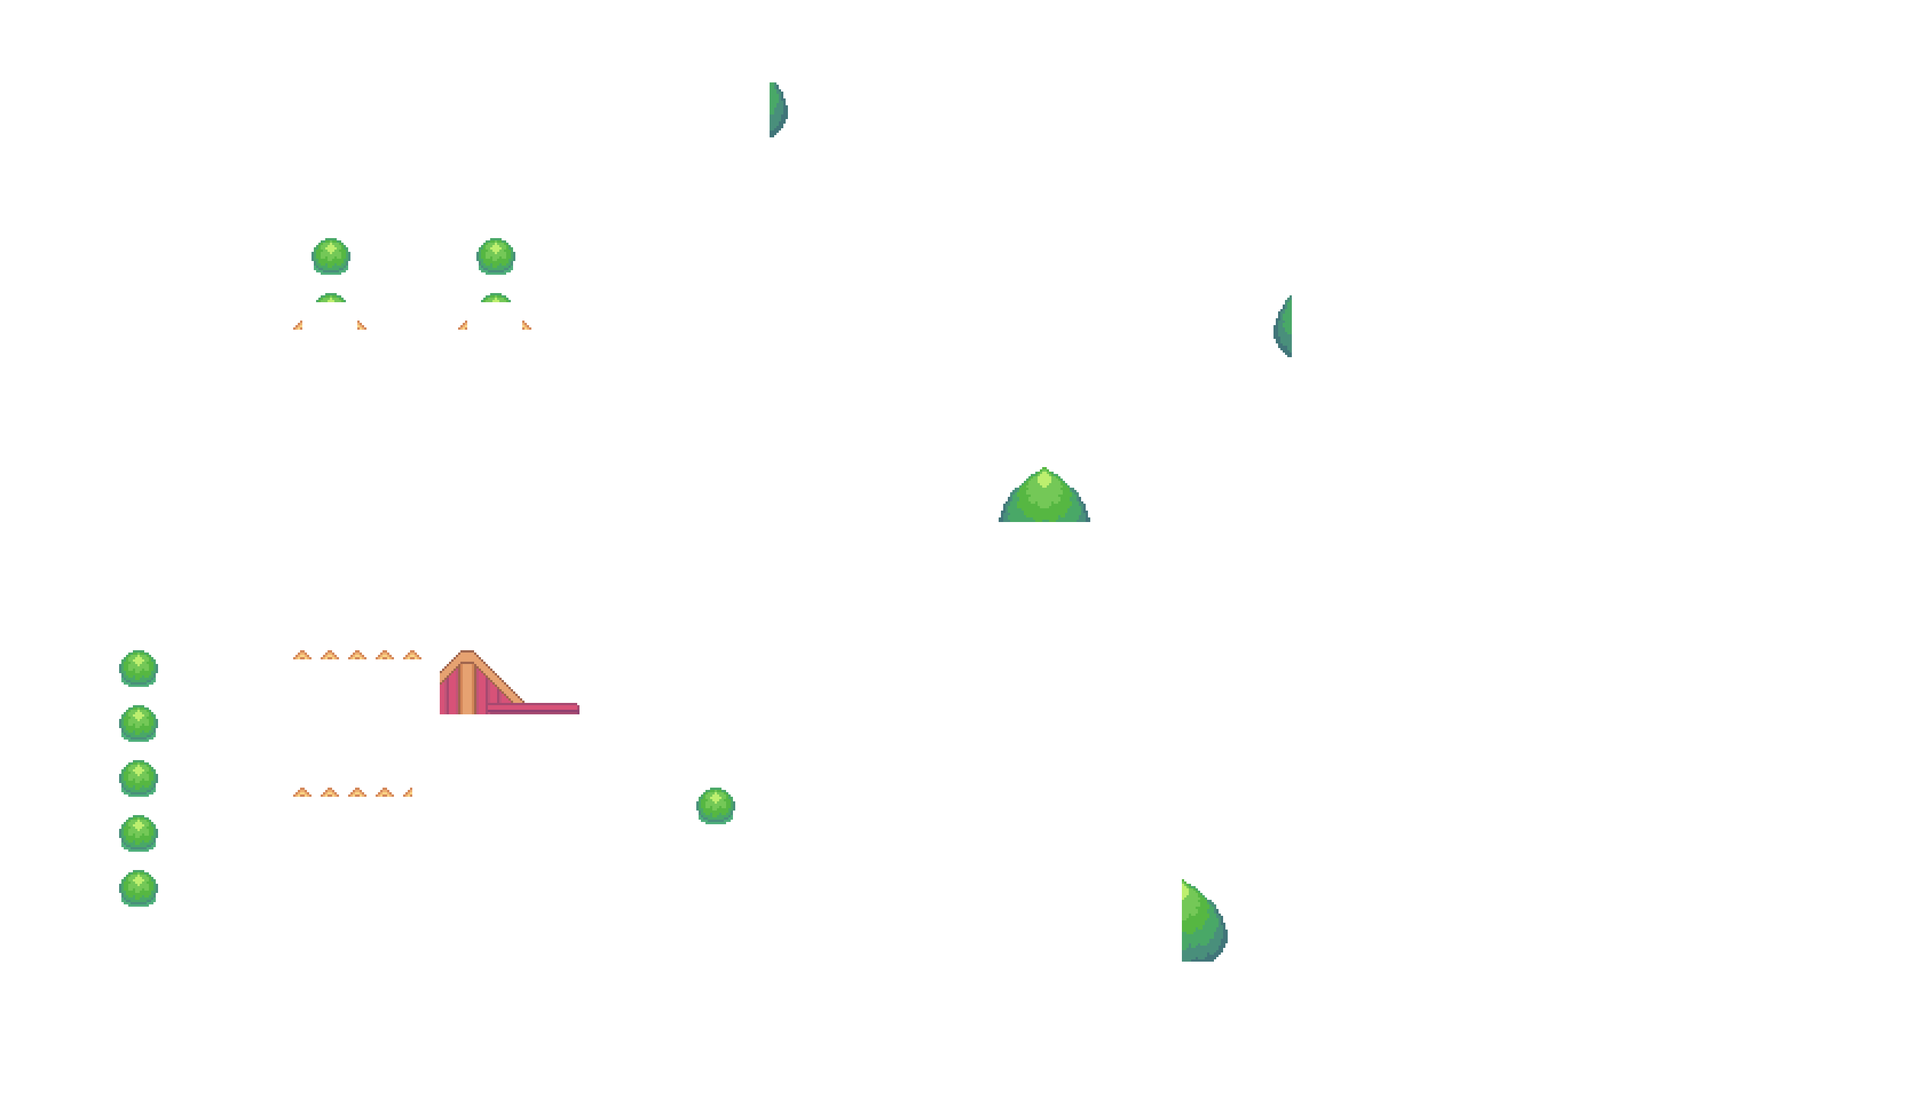
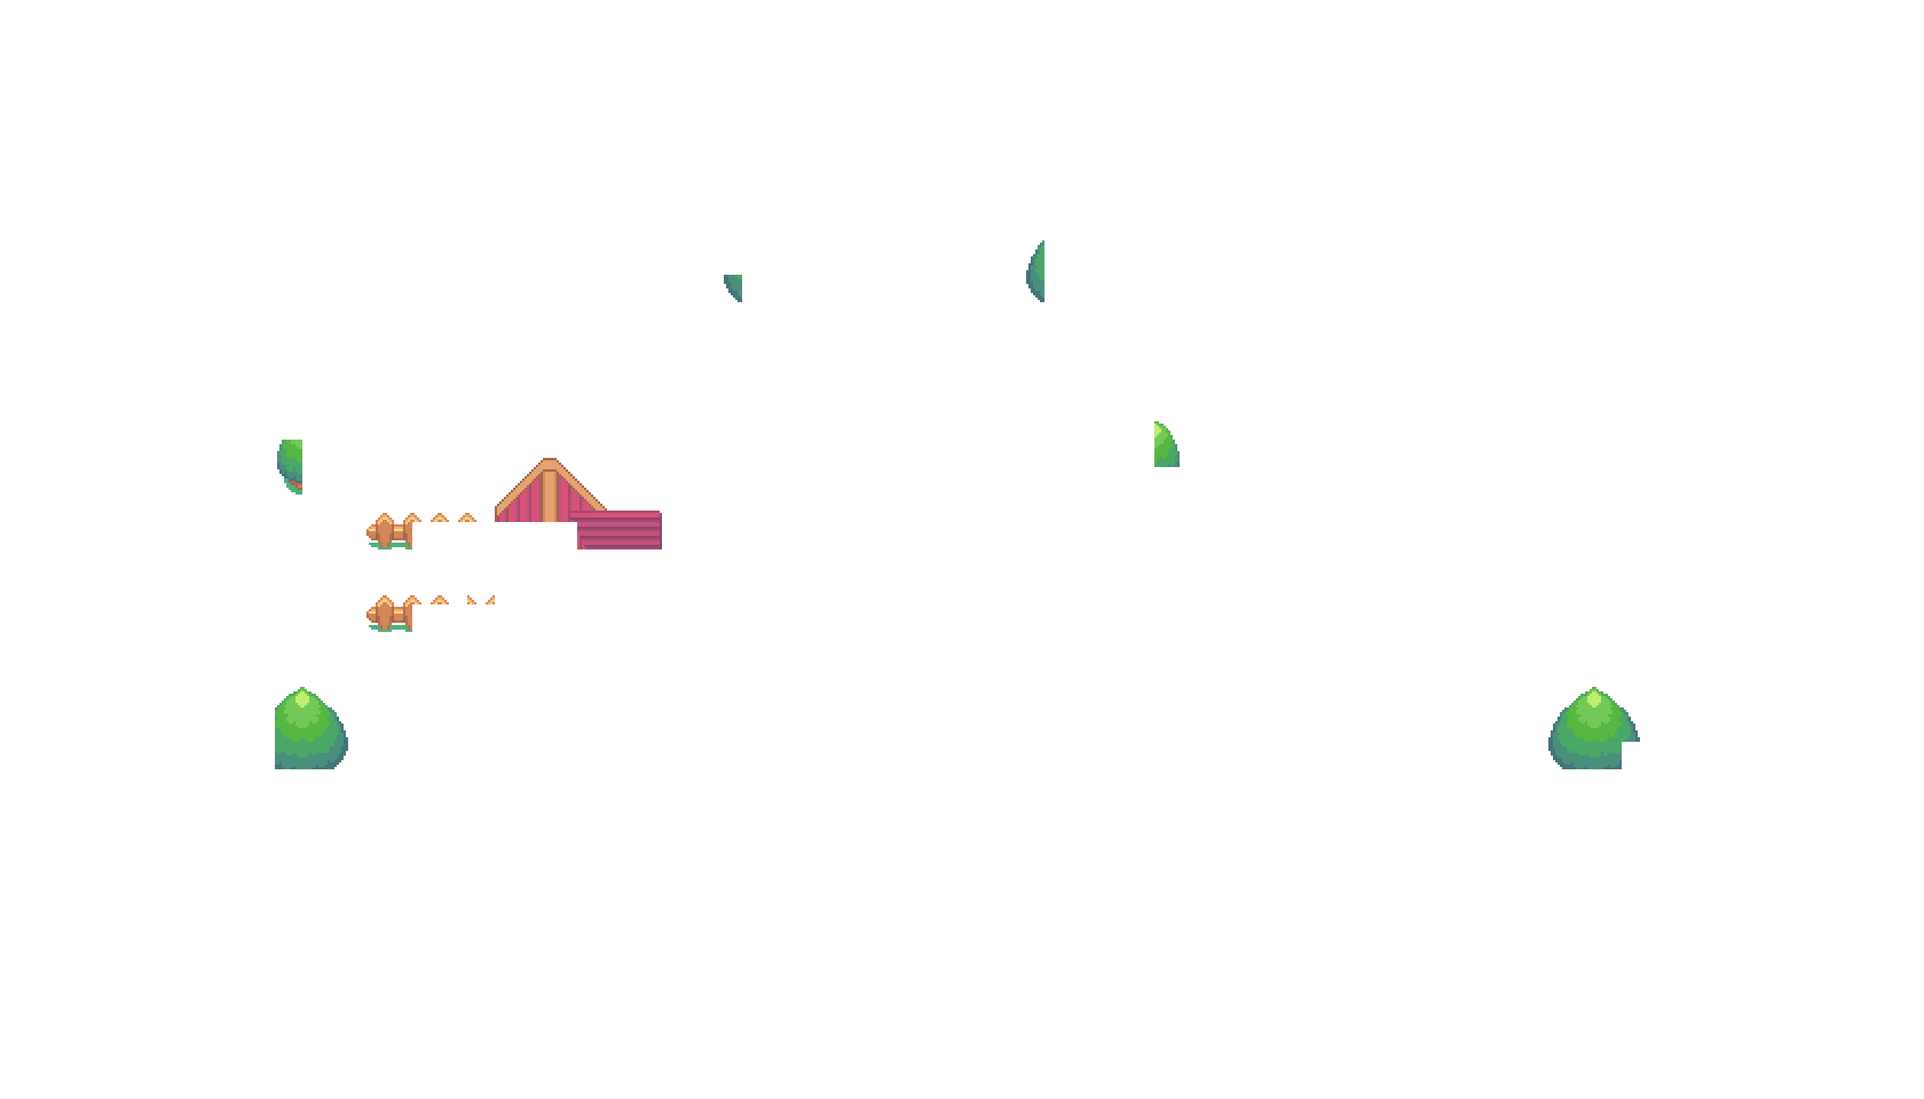
third commit

diff --git a/js/data/collisions.js b/js/data/collisions.js
@@ -5,133 +5,115 @@ const collision = [
   0, 0, 0, 0, 0, 0, 0, 0, 0, 0, 0, 0, 0, 0, 0, 0, 0, 0, 0, 0, 0, 0, 0, 0, 0, 0,
   0, 0, 0, 0, 0, 0, 0, 0, 0, 0, 0, 0, 0, 0, 0, 0, 0, 0, 0, 0, 0, 0, 0, 0, 0, 0,
   0, 0, 0, 0, 0, 0, 0, 0, 0, 0, 0, 0, 0, 0, 0, 0, 0, 0, 0, 0, 0, 0, 0, 0, 0, 0,
-  0, 0, 0, 0, 0, 0, 0, 0, 0, 0, 0, 0, 1025, 1025, 1025, 1025, 1025, 1025, 1025,
-  1025, 1025, 1025, 1025, 1025, 1025, 1025, 1025, 0, 0, 0, 0, 0, 0, 0, 0, 0, 0,
   0, 0, 0, 0, 0, 0, 0, 0, 0, 0, 0, 0, 0, 0, 0, 0, 0, 0, 0, 0, 0, 0, 0, 0, 0, 0,
-  0, 0, 0, 0, 0, 0, 0, 0, 0, 0, 0, 0, 0, 0, 0, 0, 0, 0, 1025, 0, 0, 0, 0, 0, 0,
-  0, 0, 0, 0, 0, 0, 0, 0, 1025, 0, 0, 0, 0, 0, 0, 0, 0, 0, 0, 0, 0, 0, 0, 0, 0,
   0, 0, 0, 0, 0, 0, 0, 0, 0, 0, 0, 0, 0, 0, 0, 0, 0, 0, 0, 0, 0, 0, 0, 0, 0, 0,
-  0, 0, 0, 0, 0, 0, 0, 0, 0, 1025, 1025, 0, 1025, 0, 0, 0, 0, 0, 0, 0, 0, 0, 0,
-  0, 0, 0, 0, 1025, 0, 0, 1025, 1025, 0, 0, 0, 0, 0, 0, 0, 0, 0, 0, 0, 0, 0, 0,
-  0, 0, 0, 0, 0, 0, 0, 0, 0, 0, 0, 0, 0, 0, 0, 0, 0, 1025, 0, 0, 1025, 0, 0, 0,
-  0, 0, 0, 0, 0, 0, 0, 0, 1025, 0, 0, 1025, 1025, 0, 0, 0, 0, 0, 0, 0, 0, 0, 0,
-  0, 0, 0, 0, 0, 1025, 1025, 0, 0, 1025, 0, 0, 0, 0, 0, 0, 0, 0, 0, 0, 0, 0, 0,
-  0, 0, 0, 0, 0, 0, 0, 0, 0, 0, 0, 0, 0, 0, 0, 0, 1025, 0, 1025, 1025, 0, 1025,
-  0, 0, 0, 0, 1025, 0, 0, 0, 0, 1025, 0, 0, 0, 0, 0, 0, 0, 0, 0, 0, 0, 0, 0, 0,
-  0, 0, 0, 0, 0, 0, 0, 0, 0, 0, 0, 1025, 1025, 0, 0, 0, 0, 0, 0, 1025, 1025,
-  1025, 1025, 0, 0, 0, 1025, 1025, 1025, 1025, 1025, 0, 0, 0, 0, 0, 0, 0, 0, 0,
-  1025, 0, 0, 0, 0, 0, 1025, 0, 0, 1025, 0, 1025, 1025, 1025, 1025, 0, 0, 0, 0,
-  0, 0, 0, 0, 0, 0, 0, 0, 0, 0, 0, 0, 0, 0, 0, 0, 0, 0, 0, 0, 0, 0, 0, 1025, 0,
-  0, 0, 0, 0, 1025, 0, 0, 0, 0, 1025, 1025, 1025, 0, 0, 0, 0, 0, 1025, 0, 0, 0,
-  0, 0, 0, 0, 0, 1025, 0, 0, 0, 0, 0, 1025, 0, 0, 1025, 0, 0, 0, 0, 0, 0, 0, 0,
-  0, 0, 0, 0, 0, 0, 0, 0, 0, 0, 0, 0, 0, 0, 0, 0, 0, 0, 0, 0, 0, 0, 0, 0, 0,
-  1025, 0, 0, 1025, 1025, 0, 0, 0, 0, 0, 0, 0, 0, 0, 0, 0, 0, 0, 1025, 0, 0, 0,
-  0, 0, 0, 0, 0, 1025, 0, 0, 0, 0, 0, 0, 0, 0, 0, 0, 0, 0, 0, 0, 0, 0, 0, 0, 0,
-  0, 0, 0, 0, 0, 0, 0, 0, 0, 0, 0, 0, 0, 0, 0, 0, 0, 0, 0, 0, 0, 0, 0, 1025,
-  1025, 1025, 0, 0, 0, 0, 0, 0, 0, 0, 0, 0, 0, 0, 0, 0, 0, 1025, 0, 0, 0, 0, 0,
-  0, 0, 0, 1025, 0, 0, 0, 0, 0, 1025, 0, 0, 1025, 0, 0, 0, 0, 0, 0, 0, 0, 0, 0,
-  0, 0, 0, 0, 0, 0, 0, 0, 0, 0, 0, 0, 0, 0, 0, 0, 0, 0, 0, 0, 1025, 1025, 1025,
-  0, 0, 0, 0, 0, 0, 0, 0, 0, 0, 0, 0, 0, 0, 0, 0, 0, 0, 1025, 0, 0, 0, 0, 0,
-  1025, 1025, 1025, 1025, 0, 0, 0, 1025, 1025, 0, 1025, 1025, 0, 1025, 1025, 0,
   0, 0, 0, 0, 0, 0, 0, 0, 0, 0, 0, 0, 0, 0, 0, 0, 0, 0, 0, 0, 0, 0, 0, 0, 0, 0,
-  0, 1610613761, 0, 0, 0, 0, 0, 0, 0, 0, 0, 0, 0, 0, 0, 0, 0, 0, 0, 0, 0, 1025,
-  0, 0, 0, 0, 0, 1025, 0, 0, 0, 0, 0, 0, 1025, 1025, 1025, 1025, 0, 0, 1025,
-  1025, 1025, 1025, 0, 0, 0, 0, 0, 0, 0, 0, 0, 0, 0, 0, 0, 0, 0, 0, 0, 0, 0, 0,
-  0, 0, 0, 0, 0, 0, 0, 1025, 0, 0, 0, 0, 0, 0, 0, 0, 0, 0, 0, 0, 0, 0, 0, 0, 0,
-  0, 1025, 0, 0, 0, 0, 0, 0, 1025, 0, 0, 0, 0, 0, 0, 0, 0, 0, 0, 0, 0, 0, 0, 0,
   0, 0, 0, 0, 0, 0, 0, 0, 0, 0, 0, 0, 0, 0, 0, 0, 0, 0, 0, 0, 0, 0, 0, 0, 0, 0,
-  0, 0, 1025, 1025, 1025, 0, 0, 0, 0, 0, 0, 0, 0, 0, 0, 0, 0, 0, 0, 0, 1025, 0,
-  0, 0, 0, 0, 0, 1025, 0, 0, 0, 0, 0, 0, 0, 0, 0, 0, 0, 0, 0, 0, 0, 0, 0, 0, 0,
   0, 0, 0, 0, 0, 0, 0, 0, 0, 0, 0, 0, 0, 0, 0, 0, 0, 0, 0, 0, 0, 0, 0, 0, 0, 0,
-  0, 0, 1025, 1025, 1025, 0, 1025, 1025, 1025, 1025, 0, 0, 1025, 1025, 1025, 0,
-  1025, 1025, 0, 0, 0, 0, 0, 0, 0, 1025, 0, 0, 0, 0, 0, 0, 0, 0, 0, 0, 0, 0, 0,
   0, 0, 0, 0, 0, 0, 0, 0, 0, 0, 0, 0, 0, 0, 0, 0, 0, 0, 0, 0, 0, 0, 0, 0, 0, 0,
-  0, 0, 0, 0, 0, 0, 0, 0, 0, 0, 1025, 0, 0, 0, 0, 0, 0, 0, 0, 0, 1025, 0, 0,
-  1025, 1025, 0, 0, 0, 0, 0, 0, 1025, 0, 0, 0, 0, 0, 0, 0, 0, 0, 0, 0, 0, 0, 0,
   0, 0, 0, 0, 0, 0, 0, 0, 0, 0, 0, 0, 0, 0, 0, 0, 0, 0, 0, 0, 0, 0, 0, 0, 0, 0,
-  0, 0, 0, 0, 0, 0, 0, 0, 0, 0, 0, 0, 0, 0, 0, 0, 0, 0, 0, 0, 0, 0, 0, 1025, 0,
-  0, 0, 0, 0, 0, 1025, 0, 0, 0, 0, 0, 0, 0, 0, 0, 0, 0, 0, 0, 0, 0, 0, 0, 0, 0,
   0, 0, 0, 0, 0, 0, 0, 0, 0, 0, 0, 0, 0, 0, 0, 0, 0, 0, 0, 0, 0, 0, 0, 0, 0, 0,
-  0, 0, 0, 0, 0, 0, 0, 0, 0, 0, 0, 0, 0, 0, 0, 0, 1025, 0, 0, 0, 0, 0, 0, 0,
+  0, 0, 0, 0, 0, 0, 0, 0, 0, 0, 0, 0, 0, 0, 0, 0, 0, 0, 0, 0, 0, 0, 0, 0, 0, 0,
+  0, 0, 0, 0, 0, 0, 0, 0, 0, 0, 0, 0, 0, 0, 0, 0, 0, 0, 0, 0, 0, 0, 0, 0, 0, 0,
+  0, 0, 0, 0, 0, 0, 0, 0, 0, 0, 0, 0, 0, 0, 0, 0, 0, 0, 0, 0, 0, 0, 0, 0, 0, 0,
+  0, 0, 0, 0, 0, 0, 0, 0, 0, 0, 0, 0, 0, 0, 0, 0, 0, 0, 0, 0, 0, 0, 0, 0, 0, 0,
+  0, 0, 0, 0, 0, 0, 0, 0, 0, 0, 0, 0, 0, 0, 0, 0, 0, 0, 0, 0, 0, 0, 0, 0, 0, 0,
+  0, 0, 0, 0, 0, 0, 0, 0, 0, 0, 0, 0, 0, 0, 0, 0, 0, 0, 0, 0, 0, 0, 0, 0, 0, 0,
+  0, 0, 0, 0, 0, 0, 0, 0, 0, 0, 0, 0, 0, 0, 0, 0, 0, 0, 0, 0, 0, 0, 0, 0, 0, 0,
+  0, 0, 0, 0, 0, 0, 0, 0, 0, 0, 0, 0, 0, 0, 0, 0, 0, 0, 0, 0, 0, 0, 0, 0, 0, 0,
+  0, 0, 0, 0, 0, 0, 0, 0, 0, 0, 0, 0, 0, 0, 0, 0, 0, 0, 0, 0, 0, 0, 0, 0, 0, 0,
+  0, 0, 0, 0, 0, 0, 0, 0, 0, 0, 0, 0, 0, 0, 0, 0, 0, 0, 0, 0, 0, 0, 0, 0, 0, 0,
+  0, 0, 0, 0, 0, 0, 0, 0, 0, 0, 0, 0, 0, 0, 0, 0, 0, 0, 0, 0, 0, 0, 0, 0, 0, 0,
+  0, 0, 0, 1025, 1025, 1025, 1025, 1025, 1025, 1025, 1025, 1025, 1025, 1025,
+  1025, 1025, 1025, 1025, 1025, 1025, 1025, 1025, 1025, 1025, 1025, 0, 0, 0, 0,
+  0, 0, 0, 0, 0, 0, 0, 0, 0, 0, 0, 0, 0, 0, 0, 0, 0, 0, 0, 0, 0, 0, 0, 0, 0, 0,
+  0, 0, 0, 0, 0, 0, 0, 0, 0, 0, 0, 0, 0, 0, 0, 0, 0, 1025, 0, 0, 0, 0, 1025,
+  1025, 0, 1025, 0, 0, 0, 0, 0, 0, 0, 1025, 1025, 0, 0, 0, 0, 0, 1025, 0, 0,
+  1025, 1025, 1025, 0, 0, 0, 1025, 1025, 1025, 0, 0, 0, 0, 0, 0, 0, 0, 0, 0, 0,
+  0, 0, 0, 0, 0, 0, 0, 0, 0, 0, 0, 0, 0, 0, 0, 1025, 1025, 0, 0, 0, 0, 1025,
+  1025, 0, 1025, 0, 0, 0, 0, 0, 0, 0, 1025, 1025, 1025, 1025, 1025, 1025, 1025,
+  1025, 0, 0, 0, 0, 0, 0, 0, 1025, 0, 0, 1025, 0, 0, 1025, 1025, 1025, 0, 0, 0,
   1025, 0, 0, 0, 0, 0, 0, 0, 0, 0, 0, 0, 0, 0, 0, 0, 0, 0, 0, 0, 0, 0, 0, 0, 0,
+  1025, 0, 0, 1025, 1025, 1025, 1025, 0, 0, 1025, 1025, 0, 0, 0, 0, 0, 0, 0, 0,
+  0, 0, 0, 0, 0, 0, 0, 0, 0, 0, 0, 0, 0, 1025, 1025, 1025, 0, 1025, 0, 0, 0, 0,
+  0, 0, 0, 0, 1025, 1025, 1025, 0, 0, 0, 0, 0, 0, 0, 0, 0, 0, 0, 0, 0, 0, 0, 0,
+  0, 0, 0, 0, 0, 0, 1025, 1025, 1025, 1025, 0, 0, 1025, 1025, 1025, 1025, 0, 0,
+  0, 0, 0, 0, 0, 0, 0, 0, 0, 0, 0, 0, 0, 0, 0, 0, 0, 1025, 1025, 1025, 0, 0, 0,
+  1025, 1025, 0, 0, 0, 0, 0, 0, 0, 0, 0, 0, 1025, 0, 0, 0, 0, 0, 0, 0, 0, 0, 0,
+  0, 0, 0, 0, 0, 0, 0, 0, 0, 0, 1025, 1025, 0, 0, 0, 0, 0, 0, 0, 0, 0, 0, 0, 0,
+  0, 0, 0, 0, 0, 0, 0, 0, 0, 0, 0, 0, 0, 0, 0, 0, 0, 1025, 0, 0, 0, 0, 0, 0, 0,
+  0, 0, 0, 0, 0, 0, 0, 0, 0, 0, 1025, 0, 0, 0, 0, 0, 0, 0, 0, 0, 0, 0, 0, 0, 0,
+  0, 0, 0, 0, 0, 1025, 0, 0, 0, 0, 0, 0, 0, 0, 0, 0, 0, 0, 0, 0, 0, 0, 0, 0, 0,
+  0, 0, 0, 0, 0, 0, 0, 0, 0, 0, 0, 0, 1025, 0, 0, 0, 0, 0, 0, 0, 0, 0, 0, 0, 0,
+  0, 0, 0, 0, 1025, 0, 0, 0, 0, 0, 0, 0, 0, 0, 0, 0, 0, 0, 0, 0, 0, 0, 0, 0, 0,
+  1025, 0, 0, 0, 0, 0, 0, 0, 0, 0, 0, 0, 0, 0, 0, 0, 0, 0, 0, 0, 0, 0, 0, 0, 0,
+  0, 0, 0, 0, 0, 0, 0, 1025, 0, 0, 0, 0, 0, 0, 0, 0, 0, 0, 0, 0, 0, 0, 0, 1025,
+  0, 0, 0, 0, 0, 0, 0, 0, 0, 0, 0, 0, 0, 0, 0, 0, 0, 0, 0, 0, 0, 1025, 1025, 0,
   0, 0, 0, 0, 0, 0, 0, 0, 0, 0, 0, 0, 0, 0, 0, 0, 0, 0, 0, 0, 0, 0, 0, 0, 0, 0,
-  0, 0, 0, 0, 0, 0, 0, 0, 0, 0, 1025, 0, 0, 0, 0, 0, 0, 0, 0, 1025, 0, 0, 0, 0,
+  0, 0, 0, 1025, 1025, 0, 0, 0, 0, 0, 0, 0, 0, 0, 0, 0, 0, 0, 1025, 1025, 0, 0,
+  0, 0, 0, 0, 0, 0, 0, 0, 0, 0, 0, 0, 0, 0, 0, 0, 0, 0, 0, 1025, 0, 0, 0, 0, 0,
   0, 0, 0, 0, 0, 0, 0, 0, 0, 0, 0, 0, 0, 0, 0, 0, 0, 0, 0, 0, 0, 0, 0, 0, 0, 0,
-  0, 1610613761, 1610613761, 0, 0, 0, 0, 0, 0, 0, 0, 0, 0, 0, 0, 0, 0, 0, 0, 0,
-  1610613761, 0, 0, 0, 1610613761, 1610613761, 0, 0, 0, 1025, 0, 0, 0, 0, 0, 0,
-  0, 0, 0, 1025, 0, 0, 0, 0, 0, 0, 0, 0, 0, 0, 0, 0, 0, 0, 0, 0, 0, 0, 0, 0, 0,
-  0, 0, 0, 0, 0, 0, 0, 0, 0, 0, 1610613761, 1610613761, 0, 0, 0, 0, 0, 0, 0, 0,
-  0, 0, 0, 0, 0, 0, 0, 0, 1610613761, 0, 1610613761, 1610613761, 1610613761, 0,
-  0, 1610613761, 0, 1025, 0, 0, 0, 0, 0, 0, 0, 0, 0, 0, 1025, 0, 0, 0, 0, 0, 0,
-  0, 0, 0, 0, 0, 0, 0, 0, 0, 0, 0, 0, 0, 0, 0, 1610613761, 1610613761,
-  1610613761, 1610613761, 1610613761, 1610613761, 1610613761, 1610613761,
-  1610613761, 1610613761, 0, 0, 0, 0, 0, 0, 0, 0, 0, 0, 0, 0, 0, 0, 0, 0,
-  1610613761, 1610613761, 0, 0, 0, 0, 0, 0, 0, 0, 1025, 0, 0, 0, 0, 0, 0, 0, 0,
-  0, 0, 1025, 0, 0, 0, 0, 0, 0, 0, 0, 0, 0, 0, 0, 0, 0, 0, 0, 0, 0, 0, 0, 0,
-  1610613761, 0, 0, 0, 0, 0, 0, 0, 0, 0, 0, 1610613761, 1610613761, 1610613761,
-  1610613761, 1610613761, 1610613761, 0, 0, 0, 0, 0, 0, 0, 1610613761,
-  1610613761, 1610613761, 0, 0, 0, 0, 0, 0, 0, 0, 0, 0, 1025, 0, 0, 0, 0, 0, 0,
-  0, 0, 0, 1025, 0, 0, 0, 0, 0, 0, 0, 0, 0, 0, 0, 0, 0, 0, 0, 0, 0, 0, 0, 0, 0,
-  1610613761, 0, 0, 0, 0, 0, 0, 0, 0, 0, 0, 0, 0, 0, 0, 0, 0, 0, 1610613761, 0,
-  0, 0, 0, 0, 1610613761, 0, 0, 0, 0, 0, 0, 0, 0, 0, 0, 0, 0, 0, 1025, 0, 0, 0,
-  0, 0, 0, 0, 0, 0, 1025, 0, 0, 0, 0, 0, 0, 1610613761, 1610613761, 1610613761,
-  1610613761, 1610613761, 1610613761, 0, 0, 0, 0, 0, 0, 0, 0, 0, 1025, 0, 0, 0,
-  0, 0, 0, 0, 0, 0, 0, 0, 0, 0, 0, 0, 0, 0, 0, 1610613761, 0, 0, 0, 0,
-  1610613761, 0, 0, 0, 0, 0, 0, 0, 0, 0, 0, 0, 0, 0, 0, 1025, 0, 0, 0, 0, 0, 0,
-  0, 0, 1025, 0, 0, 0, 0, 0, 0, 0, 0, 0, 0, 0, 1610613761, 0, 0, 0, 0, 0, 0, 0,
-  0, 0, 1610613761, 0, 0, 0, 0, 0, 0, 0, 0, 0, 0, 0, 0, 0, 0, 0, 0, 0, 0,
-  1610613761, 0, 0, 0, 0, 1610613761, 0, 0, 0, 0, 0, 0, 0, 0, 0, 0, 0, 0, 0, 0,
-  0, 1025, 0, 0, 0, 0, 0, 0, 0, 1025, 0, 0, 0, 0, 0, 0, 0, 0, 0, 0, 0,
-  1610613761, 1025, 1025, 1025, 1610613761, 1610613761, 0, 0, 0, 0, 0,
-  1610613761, 0, 0, 0, 0, 0, 0, 0, 0, 0, 0, 0, 0, 0, 0, 0, 0, 0, 1610613761, 0,
-  0, 0, 0, 1610613761, 0, 0, 0, 0, 0, 0, 0, 0, 0, 0, 0, 0, 0, 0, 0, 0, 1025, 0,
-  0, 0, 0, 0, 0, 1025, 0, 0, 0, 0, 0, 0, 0, 0, 0, 0, 0, 1610613761, 0, 0, 0, 0,
-  1610613761, 0, 0, 0, 0, 0, 1610613761, 0, 0, 0, 0, 0, 0, 0, 0, 0, 0, 0, 0, 0,
-  0, 0, 0, 1610613761, 0, 0, 0, 0, 0, 1610613761, 0, 0, 0, 0, 0, 0, 0, 0, 0, 0,
-  0, 0, 0, 0, 0, 0, 1025, 0, 0, 0, 0, 0, 0, 1025, 0, 0, 0, 0, 0, 0, 0, 0, 0, 0,
-  0, 1610613761, 0, 0, 0, 0, 1610613761, 0, 0, 0, 0, 0, 0, 1610613761,
-  1610613761, 1610613761, 1610613761, 1610613761, 0, 0, 0, 0, 0, 0, 0, 0, 0, 0,
-  1610613761, 0, 0, 0, 0, 0, 0, 1610613761, 1610613761, 0, 0, 0, 0, 0, 0, 0, 0,
-  0, 0, 0, 0, 0, 0, 0, 1025, 0, 0, 0, 0, 0, 0, 1025, 0, 0, 0, 0, 0, 0,
-  1610613761, 1610613761, 1610613761, 1610613761, 1610613761, 1610613761,
-  1610613761, 1610613761, 1610613761, 1610613761, 1610613761, 1610613761, 0, 0,
-  0, 0, 0, 0, 0, 0, 0, 0, 1610613761, 0, 0, 0, 0, 0, 0, 0, 0, 0, 1610613761, 0,
-  0, 0, 0, 0, 0, 0, 1610613761, 1610613761, 0, 0, 1610613761, 1610613761, 0, 0,
-  0, 0, 0, 0, 0, 0, 0, 0, 1025, 0, 0, 0, 0, 0, 0, 1025, 0, 0, 0, 0, 0, 0, 0, 0,
-  0, 0, 0, 0, 0, 0, 0, 0, 0, 0, 0, 0, 0, 0, 0, 0, 0, 0, 0, 0, 1610613761, 0, 0,
-  0, 0, 0, 0, 0, 0, 0, 1610613761, 0, 0, 0, 0, 0, 0, 0, 0, 0, 0, 0, 0, 0,
-  1610613761, 1610613761, 0, 0, 0, 0, 0, 0, 0, 0, 1025, 0, 0, 0, 0, 0, 0, 1025,
+  0, 0, 1025, 1025, 1025, 1025, 1025, 1025, 0, 0, 1025, 1025, 1025, 0, 1025, 0,
+  0, 1025, 1025, 0, 0, 0, 0, 0, 0, 0, 0, 0, 0, 0, 0, 0, 0, 0, 0, 0, 0, 0, 1025,
+  0, 0, 0, 0, 1025, 1025, 1025, 1025, 1025, 1025, 1025, 0, 0, 0, 0, 0, 0, 0, 0,
+  0, 0, 0, 0, 0, 0, 0, 0, 0, 0, 0, 0, 0, 0, 0, 0, 0, 0, 0, 0, 0, 0, 0, 0, 0,
+  1025, 0, 0, 0, 0, 0, 1025, 0, 0, 0, 0, 0, 0, 0, 0, 0, 0, 0, 0, 0, 0, 0, 0, 0,
+  0, 1025, 0, 0, 0, 0, 0, 0, 0, 0, 1025, 1025, 1025, 1025, 1025, 1025, 0, 0, 0,
   0, 0, 0, 0, 0, 0, 0, 0, 0, 0, 0, 0, 0, 0, 0, 0, 0, 0, 0, 0, 0, 0, 0, 0, 0, 0,
-  0, 0, 1610613761, 0, 0, 0, 0, 0, 0, 0, 0, 0, 1610613761, 0, 0, 0, 0, 0, 0, 0,
-  0, 0, 0, 0, 0, 0, 0, 0, 1610613761, 1610613761, 1025, 1025, 1025, 1025, 1025,
-  1025, 0, 0, 0, 0, 0, 0, 0, 1025, 0, 0, 0, 0, 0, 0, 0, 0, 0, 0, 0, 0, 0, 0, 0,
-  0, 0, 0, 0, 0, 0, 0, 0, 1610613761, 1610613761, 1610613761, 1610613761,
-  1610613761, 0, 0, 0, 0, 0, 0, 0, 0, 0, 0, 1025, 0, 0, 0, 0, 0, 0, 0, 0, 0, 0,
-  0, 0, 0, 0, 0, 0, 1610613761, 0, 0, 0, 0, 0, 0, 0, 0, 0, 0, 0, 0, 0, 1025, 0,
-  0, 0, 0, 0, 0, 0, 0, 0, 0, 0, 0, 0, 0, 0, 0, 0, 0, 0, 0, 0, 0, 0, 1610613761,
+  0, 0, 0, 0, 0, 0, 0, 1025, 0, 0, 0, 0, 0, 0, 0, 0, 0, 0, 0, 0, 0, 0, 0, 0, 0,
+  0, 1025, 0, 0, 0, 0, 0, 0, 0, 0, 1025, 0, 0, 1025, 0, 1025, 0, 0, 0, 0, 1025,
+  0, 0, 0, 0, 1025, 0, 0, 0, 0, 0, 0, 0, 0, 0, 0, 0, 0, 0, 0, 0, 0, 0, 0, 0, 0,
+  0, 0, 0, 0, 0, 0, 1025, 0, 0, 0, 0, 0, 0, 0, 0, 0, 0, 0, 0, 0, 0, 0, 0, 0, 0,
+  1025, 0, 0, 0, 0, 1025, 1025, 1025, 1025, 1025, 0, 0, 1025, 1025, 1025, 1025,
+  1025, 1025, 1025, 0, 1025, 1025, 1025, 1025, 0, 1025, 1025, 1025, 1025, 0, 0,
+  1025, 1025, 0, 0, 0, 0, 0, 0, 0, 0, 0, 0, 0, 0, 0, 0, 0, 0, 0, 0, 1025, 0, 0,
+  0, 0, 0, 0, 0, 0, 0, 0, 0, 0, 0, 0, 0, 0, 0, 0, 1025, 0, 0, 0, 0, 0, 0, 0, 0,
+  0, 0, 0, 0, 0, 0, 0, 1025, 0, 0, 0, 0, 0, 0, 0, 0, 0, 0, 0, 0, 1025, 0, 0, 0,
+  1025, 0, 0, 0, 0, 0, 0, 0, 0, 0, 0, 0, 0, 0, 0, 0, 0, 0, 1025, 0, 0, 0, 0, 0,
   0, 0, 0, 0, 0, 0, 0, 0, 0, 0, 0, 0, 0, 1025, 0, 0, 0, 0, 0, 0, 0, 0, 0, 0, 0,
-  0, 1610613761, 0, 0, 0, 0, 1610613761, 0, 0, 0, 0, 0, 0, 0, 0, 0, 0, 0, 0, 0,
-  0, 1610613761, 1610613761, 0, 0, 0, 0, 0, 0, 0, 0, 0, 0, 1610613761,
-  1610613761, 1610613761, 0, 0, 0, 0, 0, 0, 0, 1610613761, 0, 0, 0, 0, 0, 0, 0,
-  0, 0, 0, 0, 0, 0, 0, 0, 1025, 0, 0, 0, 0, 0, 0, 0, 0, 0, 1610613761, 1025, 0,
-  1025, 1610613761, 0, 0, 0, 1610613761, 0, 0, 0, 0, 0, 0, 0, 0, 0, 0, 0, 0, 0,
-  0, 1610613761, 1610613761, 0, 0, 0, 0, 0, 0, 0, 1610613761, 1610613761, 0, 0,
-  0, 1610613761, 1610613761, 1610613761, 0, 0, 0, 0, 1610613761, 0, 0, 0, 0, 0,
-  0, 0, 0, 0, 0, 0, 0, 0, 0, 0, 0, 1610613761, 0, 0, 0, 0, 0, 0, 0, 1610613761,
-  0, 0, 0, 0, 0, 1610613761, 0, 0, 1610613761, 0, 0, 0, 0, 0, 0, 0, 0, 0, 0, 0,
-  0, 0, 0, 0, 1610613761, 1610613761, 1610613761, 1610613761, 1610613761, 0, 0,
-  1610613761, 0, 0, 0, 0, 0, 0, 0, 0, 1610613761, 0, 0, 0, 0, 1610613761,
-  1610613761, 1610613761, 0, 0, 0, 0, 0, 0, 0, 0, 0, 0, 0, 0, 0, 1610613761, 0,
-  0, 0, 1610613761, 1610613761, 1610613761, 1610613761, 0, 0, 0, 0, 0, 0, 0,
-  1610613761, 1610613761, 0, 0, 0, 0, 0, 0, 0, 0, 0, 0, 0, 0, 0, 0, 0, 0, 0, 0,
-  0, 0, 1610613761, 1610613761, 1610613761, 0, 0, 0, 0, 0, 0, 0, 0, 0, 0,
-  1610613761, 1610613761, 0, 0, 0, 0, 1610613761, 0, 0, 0, 0, 0, 0, 0, 0, 0, 0,
-  0, 0, 0, 0, 1610613761, 1610613761, 1610613761, 0, 0, 0, 0, 0, 0, 0, 0, 0, 0,
+  0, 0, 0, 0, 1025, 1025, 1025, 1025, 1025, 0, 0, 0, 0, 0, 0, 0, 0, 0, 0, 0, 0,
+  0, 1025, 1025, 0, 0, 0, 0, 0, 0, 0, 0, 0, 0, 0, 0, 0, 0, 0, 1025, 0, 0, 0, 0,
+  0, 0, 0, 0, 0, 0, 0, 0, 0, 0, 0, 0, 0, 0, 1025, 0, 0, 0, 0, 0, 0, 0, 0, 0, 0,
+  0, 0, 0, 0, 0, 0, 0, 0, 0, 0, 1025, 0, 0, 0, 0, 0, 0, 0, 0, 0, 0, 0, 0, 0,
+  1025, 0, 0, 0, 0, 0, 0, 0, 0, 0, 0, 0, 0, 0, 0, 0, 1025, 0, 0, 0, 0, 0, 0, 0,
+  0, 0, 0, 0, 0, 0, 0, 0, 0, 0, 0, 1025, 0, 0, 0, 0, 0, 0, 0, 0, 0, 0, 0, 0, 0,
+  0, 0, 0, 0, 0, 0, 0, 1025, 0, 0, 0, 0, 0, 0, 0, 0, 0, 0, 0, 0, 0, 1025, 0, 0,
+  0, 0, 0, 0, 0, 0, 0, 0, 0, 0, 0, 0, 0, 1025, 0, 0, 0, 0, 0, 0, 0, 0, 0, 0, 0,
+  0, 0, 0, 0, 0, 0, 0, 1025, 0, 0, 0, 0, 0, 0, 0, 0, 0, 0, 0, 0, 0, 0, 0, 0, 0,
+  0, 0, 0, 1025, 0, 0, 0, 0, 0, 0, 0, 0, 0, 0, 0, 0, 1025, 0, 0, 0, 0, 0, 0, 0,
+  0, 0, 0, 0, 0, 0, 0, 0, 1025, 0, 0, 0, 0, 0, 0, 0, 0, 0, 0, 0, 0, 0, 0, 0, 0,
+  0, 0, 0, 1025, 1025, 1025, 0, 0, 0, 0, 0, 0, 0, 0, 0, 0, 0, 0, 0, 0, 0, 1025,
+  1025, 1025, 0, 0, 0, 0, 0, 0, 0, 0, 0, 0, 0, 0, 1025, 0, 0, 0, 0, 0, 0, 0, 0,
+  0, 0, 0, 0, 0, 0, 1025, 1025, 0, 0, 0, 0, 0, 0, 0, 0, 0, 0, 0, 0, 0, 0, 0, 0,
+  0, 0, 0, 0, 0, 0, 1025, 0, 0, 0, 0, 0, 0, 0, 0, 0, 0, 0, 0, 0, 0, 0, 1025, 0,
+  0, 0, 0, 0, 0, 0, 0, 0, 0, 0, 0, 0, 0, 1025, 0, 0, 0, 0, 0, 0, 0, 0, 0, 0, 0,
+  0, 0, 0, 1025, 0, 0, 0, 0, 0, 0, 0, 0, 0, 0, 0, 0, 0, 0, 0, 0, 0, 0, 0, 0, 0,
+  0, 0, 1025, 1025, 1025, 1025, 1025, 1025, 1025, 1025, 1025, 1025, 1025, 1025,
+  1025, 1025, 1025, 1025, 0, 0, 0, 0, 0, 0, 0, 0, 0, 0, 0, 0, 0, 0, 0, 0, 1025,
+  1025, 1025, 1025, 1025, 1025, 1025, 1025, 1025, 1025, 1025, 1025, 1025, 1025,
   0, 0, 0, 0, 0, 0, 0, 0, 0, 0, 0, 0, 0, 0, 0, 0, 0, 0, 0, 0, 0, 0, 0, 0, 0, 0,
-  0, 0, 0, 0, 0, 0, 0, 0, 0, 0, 0, 0, 1610613761, 1610613761, 1610613761,
-  1610613761, 0, 0, 0, 0, 0, 0, 0, 0, 0, 0, 0, 0, 0, 0, 0, 0, 0, 0, 0, 0, 0, 0,
   0, 0, 0, 0, 0, 0, 0, 0, 0, 0, 0, 0, 0, 0, 0, 0, 0, 0, 0, 0, 0, 0, 0, 0, 0, 0,
   0, 0, 0, 0, 0, 0, 0, 0, 0, 0, 0, 0, 0, 0, 0, 0, 0, 0, 0, 0, 0, 0, 0, 0, 0, 0,
   0, 0, 0, 0, 0, 0, 0, 0, 0, 0, 0, 0, 0, 0, 0, 0, 0, 0, 0, 0, 0, 0, 0, 0, 0, 0,
-  0, 0, 0, 0, 0, 0, 0, 0, 0, 0, 0,
+  0, 0, 0, 0, 0, 0, 0, 0, 0, 0, 0, 0, 0, 0, 0, 0, 0, 0, 0, 0, 0, 0, 0, 0, 0, 0,
+  0, 0, 0, 0, 0, 0, 0, 0, 0, 0, 0, 0, 0, 0, 0, 0, 0, 0, 0, 0, 0, 0, 0, 0, 0, 0,
+  0, 0, 0, 0, 0, 0, 0, 0, 0, 0, 0, 0, 0, 0, 0, 0, 0, 0, 0, 0, 0, 0, 0, 0, 0, 0,
+  0, 0, 0, 0, 0, 0, 0, 0, 0, 0, 0, 0, 0, 0, 0, 0, 0, 0, 0, 0, 0, 0, 0, 0, 0, 0,
+  0, 0, 0, 0, 0, 0, 0, 0, 0, 0, 0, 0, 0, 0, 0, 0, 0, 0, 0, 0, 0, 0, 0, 0, 0, 0,
+  0, 0, 0, 0, 0, 0, 0, 0, 0, 0, 0, 0, 0, 0, 0, 0, 0, 0, 0, 0, 0, 0, 0, 0, 0, 0,
+  0, 0, 0, 0, 0, 0, 0, 0, 0, 0, 0, 0, 0, 0, 0, 0, 0, 0, 0, 0, 0, 0, 0, 0, 0, 0,
+  0, 0, 0, 0, 0, 0, 0, 0, 0, 0, 0, 0, 0, 0, 0, 0, 0, 0, 0, 0, 0, 0, 0, 0, 0, 0,
+  0, 0, 0, 0, 0, 0, 0, 0, 0, 0, 0, 0, 0, 0, 0, 0, 0, 0, 0, 0, 0, 0, 0, 0, 0, 0,
+  0, 0, 0, 0, 0, 0, 0, 0, 0, 0, 0, 0, 0, 0, 0, 0, 0, 0, 0, 0, 0, 0, 0, 0, 0, 0,
+  0, 0, 0, 0, 0, 0, 0, 0, 0, 0, 0, 0, 0, 0, 0, 0, 0, 0, 0, 0, 0, 0, 0, 0, 0, 0,
+  0, 0, 0, 0, 0, 0, 0, 0, 0, 0, 0, 0, 0, 0, 0, 0, 0, 0, 0, 0, 0, 0, 0, 0, 0, 0,
+  0, 0, 0, 0, 0, 0, 0, 0, 0, 0, 0, 0, 0, 0, 0, 0, 0, 0, 0, 0, 0, 0, 0, 0, 0, 0,
+  0, 0, 0, 0, 0, 0, 0, 0, 0, 0, 0, 0, 0, 0, 0, 0, 0, 0, 0, 0, 0, 0, 0, 0, 0, 0,
+  0, 0, 0, 0, 0, 0, 0, 0, 0, 0, 0, 0, 0, 0, 0, 0, 0, 0, 0, 0, 0, 0, 0, 0, 0, 0,
+  0, 0, 0, 0, 0, 0, 0, 0, 0, 0, 0, 0, 0, 0, 0, 0, 0, 0, 0, 0, 0, 0, 0, 0, 0, 0,
+  0, 0, 0, 0, 0, 0, 0, 0, 0, 0, 0, 0, 0, 0, 0, 0, 0, 0, 0, 0, 0, 0, 0, 0, 0, 0,
+  0, 0, 0, 0, 0, 0, 0, 0, 0, 0, 0, 0, 0, 0, 0, 0, 0, 0, 0, 0, 0, 0, 0, 0, 0, 0,
+  0, 0, 0, 0, 0, 0, 0, 0, 0, 0, 0, 0, 0, 0, 0, 0, 0, 0, 0, 0, 0, 0, 0, 0, 0, 0,
+  0, 0, 0, 0, 0, 0, 0, 0, 0, 0, 0, 0, 0, 0, 0, 0, 0, 0, 0, 0, 0, 0, 0, 0, 0, 0,
+  0, 0, 0, 0, 0, 0, 0, 0, 0, 0, 0, 0, 0, 0, 0, 0, 0, 0, 0,
 ];

diff --git a/js/data/battleZones.js b/js/data/battleZones.js
@@ -25,14 +25,8 @@ battleZonesData = [
   0, 0, 0, 0, 0, 0, 0, 0, 0, 0, 0, 0, 0, 0, 0, 0, 0, 0, 0, 0, 0, 0, 0, 0, 0, 0,
   0, 0, 0, 0, 0, 0, 0, 0, 0, 0, 0, 0, 0, 0, 0, 0, 0, 0, 0, 0, 0, 0, 0, 0, 0, 0,
   0, 0, 0, 0, 0, 0, 0, 0, 0, 0, 0, 0, 0, 0, 0, 0, 0, 0, 0, 0, 0, 0, 0, 0, 0, 0,
-  0, 0, 0, 0, 0, 0, 0, 0, 0, 0, 0, 0, 0, 1026, 1026, 1026, 1026, 1026, 1026,
-  1026, 0, 0, 0, 0, 0, 0, 0, 0, 0, 0, 0, 0, 0, 0, 0, 0, 0, 0, 0, 0, 0, 0, 0, 0,
   0, 0, 0, 0, 0, 0, 0, 0, 0, 0, 0, 0, 0, 0, 0, 0, 0, 0, 0, 0, 0, 0, 0, 0, 0, 0,
-  0, 0, 0, 0, 0, 0, 0, 0, 0, 0, 0, 0, 0, 1026, 1026, 1026, 1026, 1026, 1026,
-  1026, 0, 0, 0, 0, 0, 0, 0, 0, 0, 0, 0, 0, 0, 0, 0, 0, 0, 0, 0, 0, 0, 0, 0, 0,
   0, 0, 0, 0, 0, 0, 0, 0, 0, 0, 0, 0, 0, 0, 0, 0, 0, 0, 0, 0, 0, 0, 0, 0, 0, 0,
-  0, 0, 0, 0, 0, 0, 0, 0, 0, 0, 0, 0, 0, 1026, 1026, 1026, 1026, 1026, 1026,
-  1026, 0, 0, 0, 0, 0, 0, 0, 0, 0, 0, 0, 0, 0, 0, 0, 0, 0, 0, 0, 0, 0, 0, 0, 0,
   0, 0, 0, 0, 0, 0, 0, 0, 0, 0, 0, 0, 0, 0, 0, 0, 0, 0, 0, 0, 0, 0, 0, 0, 0, 0,
   0, 0, 0, 0, 0, 0, 0, 0, 0, 0, 0, 0, 0, 0, 0, 0, 0, 0, 0, 0, 0, 0, 0, 0, 0, 0,
   0, 0, 0, 0, 0, 0, 0, 0, 0, 0, 0, 0, 0, 0, 0, 0, 0, 0, 0, 0, 0, 0, 0, 0, 0, 0,
@@ -41,8 +35,14 @@ battleZonesData = [
   0, 0, 0, 0, 0, 0, 0, 0, 0, 0, 0, 0, 0, 0, 0, 0, 0, 0, 0, 0, 0, 0, 0, 0, 0, 0,
   0, 0, 0, 0, 0, 0, 0, 0, 0, 0, 0, 0, 0, 0, 0, 0, 0, 0, 0, 0, 0, 0, 0, 0, 0, 0,
   0, 0, 0, 0, 0, 0, 0, 0, 0, 0, 0, 0, 0, 0, 0, 0, 0, 0, 0, 0, 0, 0, 0, 0, 0, 0,
+  0, 0, 0, 0, 0, 0, 0, 0, 0, 0, 0, 0, 0, 0, 0, 0, 0, 0, 0, 0, 0, 0, 0, 0, 1026,
+  1026, 1026, 1026, 1026, 1026, 1026, 0, 0, 0, 0, 0, 0, 0, 0, 0, 0, 0, 0, 0, 0,
   0, 0, 0, 0, 0, 0, 0, 0, 0, 0, 0, 0, 0, 0, 0, 0, 0, 0, 0, 0, 0, 0, 0, 0, 0, 0,
+  0, 0, 0, 0, 0, 0, 0, 0, 0, 0, 0, 0, 0, 0, 0, 0, 0, 0, 0, 0, 0, 0, 0, 1026,
+  1026, 1026, 1026, 1026, 1026, 1026, 0, 0, 0, 0, 0, 0, 0, 0, 0, 0, 0, 0, 0, 0,
   0, 0, 0, 0, 0, 0, 0, 0, 0, 0, 0, 0, 0, 0, 0, 0, 0, 0, 0, 0, 0, 0, 0, 0, 0, 0,
+  0, 0, 0, 0, 0, 0, 0, 0, 0, 0, 0, 0, 0, 0, 0, 0, 0, 0, 0, 0, 0, 0, 0, 1026,
+  1026, 1026, 1026, 1026, 1026, 1026, 0, 0, 0, 0, 0, 0, 0, 0, 0, 0, 0, 0, 0, 0,
   0, 0, 0, 0, 0, 0, 0, 0, 0, 0, 0, 0, 0, 0, 0, 0, 0, 0, 0, 0, 0, 0, 0, 0, 0, 0,
   0, 0, 0, 0, 0, 0, 0, 0, 0, 0, 0, 0, 0, 0, 0, 0, 0, 0, 0, 0, 0, 0, 0, 0, 0, 0,
   0, 0, 0, 0, 0, 0, 0, 0, 0, 0, 0, 0, 0, 0, 0, 0, 0, 0, 0, 0, 0, 0, 0, 0, 0, 0,
@@ -107,5 +107,5 @@ battleZonesData = [
   0, 0, 0, 0, 0, 0, 0, 0, 0, 0, 0, 0, 0, 0, 0, 0, 0, 0, 0, 0, 0, 0, 0, 0, 0, 0,
   0, 0, 0, 0, 0, 0, 0, 0, 0, 0, 0, 0, 0, 0, 0, 0, 0, 0, 0, 0, 0, 0, 0, 0, 0, 0,
   0, 0, 0, 0, 0, 0, 0, 0, 0, 0, 0, 0, 0, 0, 0, 0, 0, 0, 0, 0, 0, 0, 0, 0, 0, 0,
-  0, 0, 0, 0, 0, 0, 0, 0, 0, 0, 0, 0, 0, 0, 0, 0,
+  0, 0, 0, 0, 0, 0, 0, 0, 0, 0, 0, 0, 0, 0, 0,
 ];

diff --git a/index.js b/index.js
@@ -10,13 +10,15 @@ const mobile = window.innerWidth < 600;
 // set size
 canvas.width = 1024;
 canvas.height = 576;
+
 if (mobile) {
   canvas.height = window.innerHeight;
   canvas.width = window.innerWidth / 0.9;
 }
+
 const offset = {
   x: -300,
-  y: -1200,
+  y: -900,
 };
 
 // DRAW BATTLE ZONES

diff --git a/js/utils.js b/js/utils.js
@@ -1,6 +1,10 @@
 const battleBgImg = new Image();
 battleBgImg.src = './img/battleBackground.png';
 
+// find mobile size
+
+if (mobile) battleBgImg.width = window.innerWidth;
+
 const batttleBg = new Sprite({
   position: {
     x: 0,
